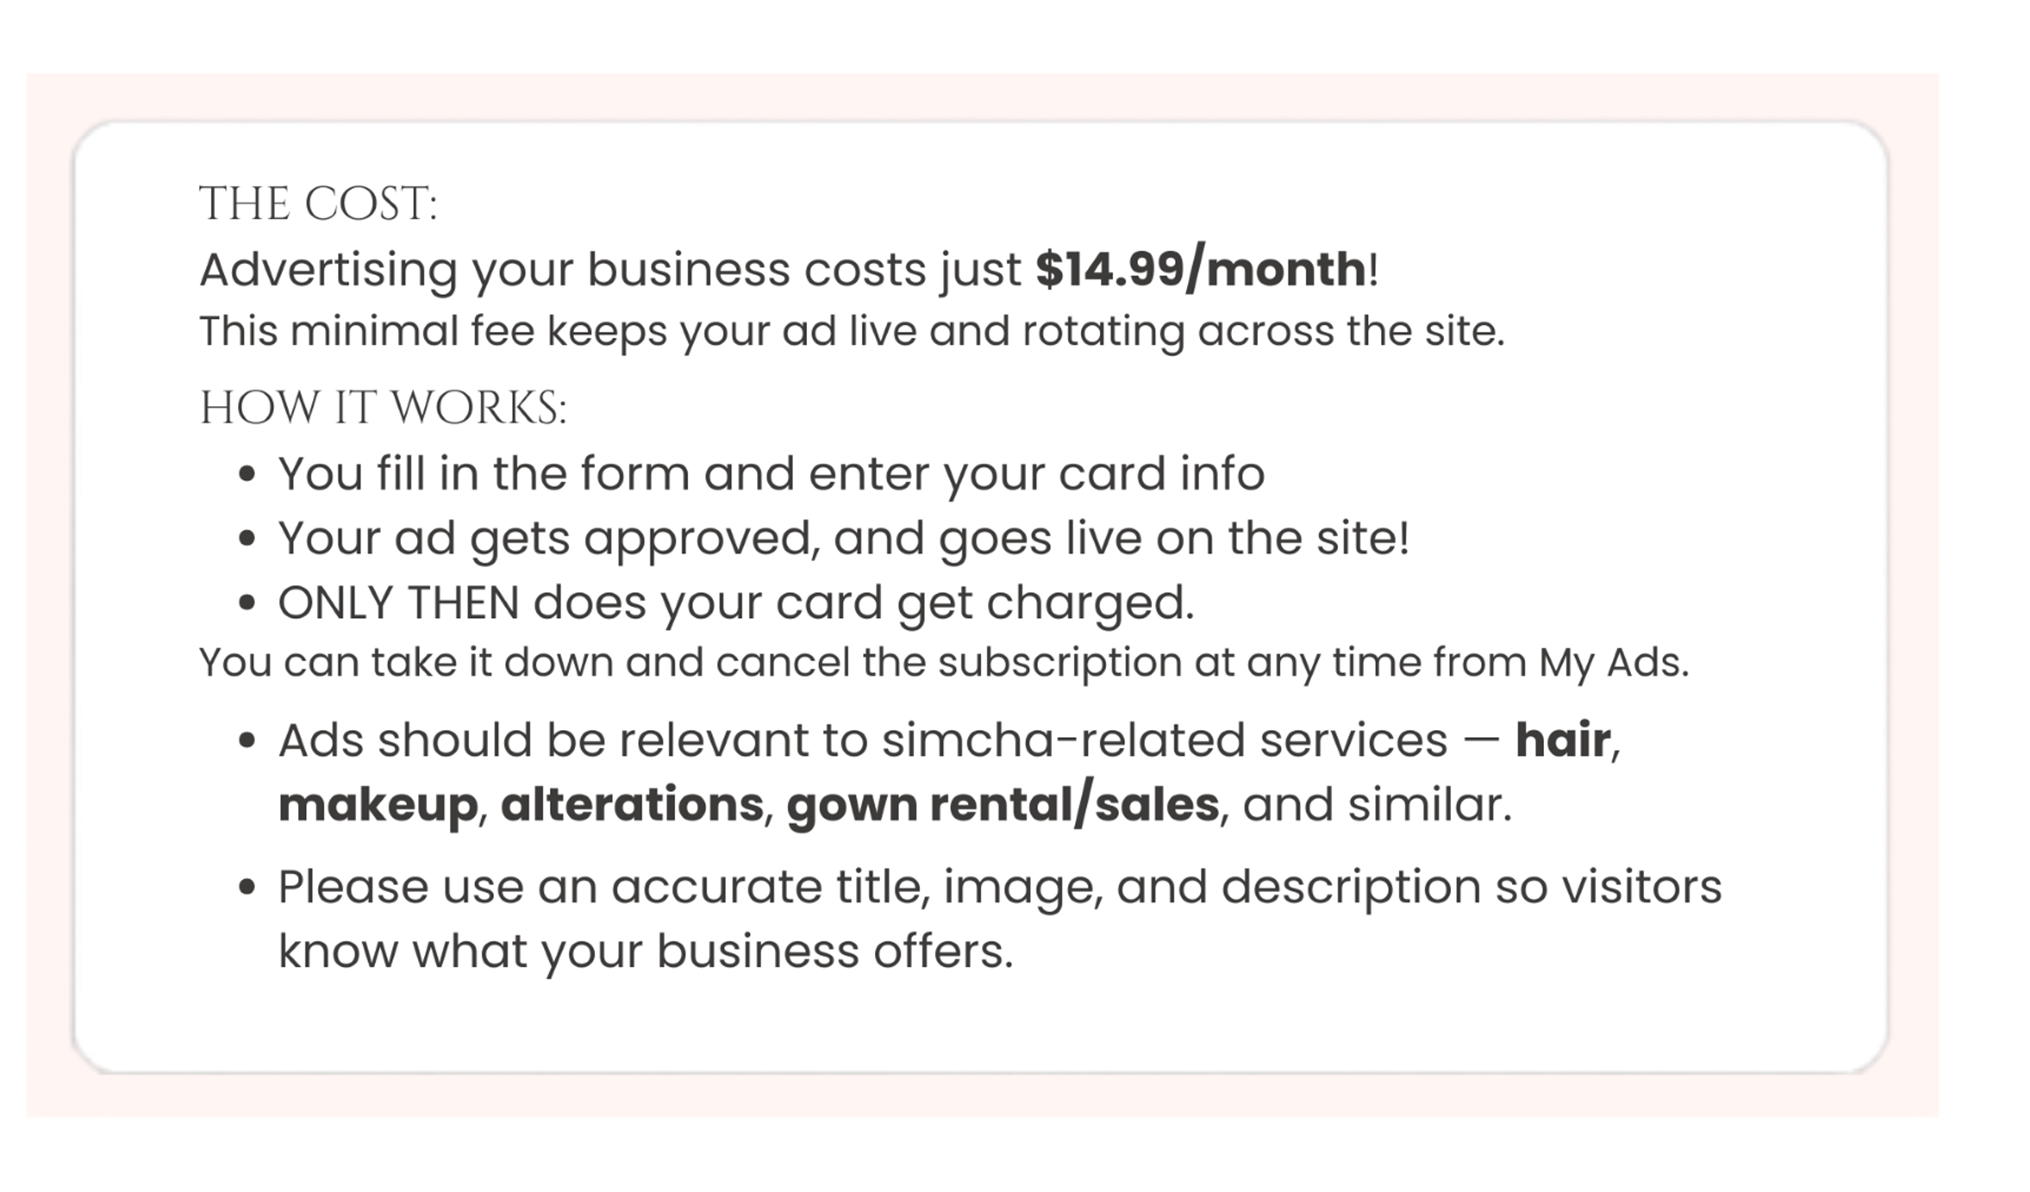
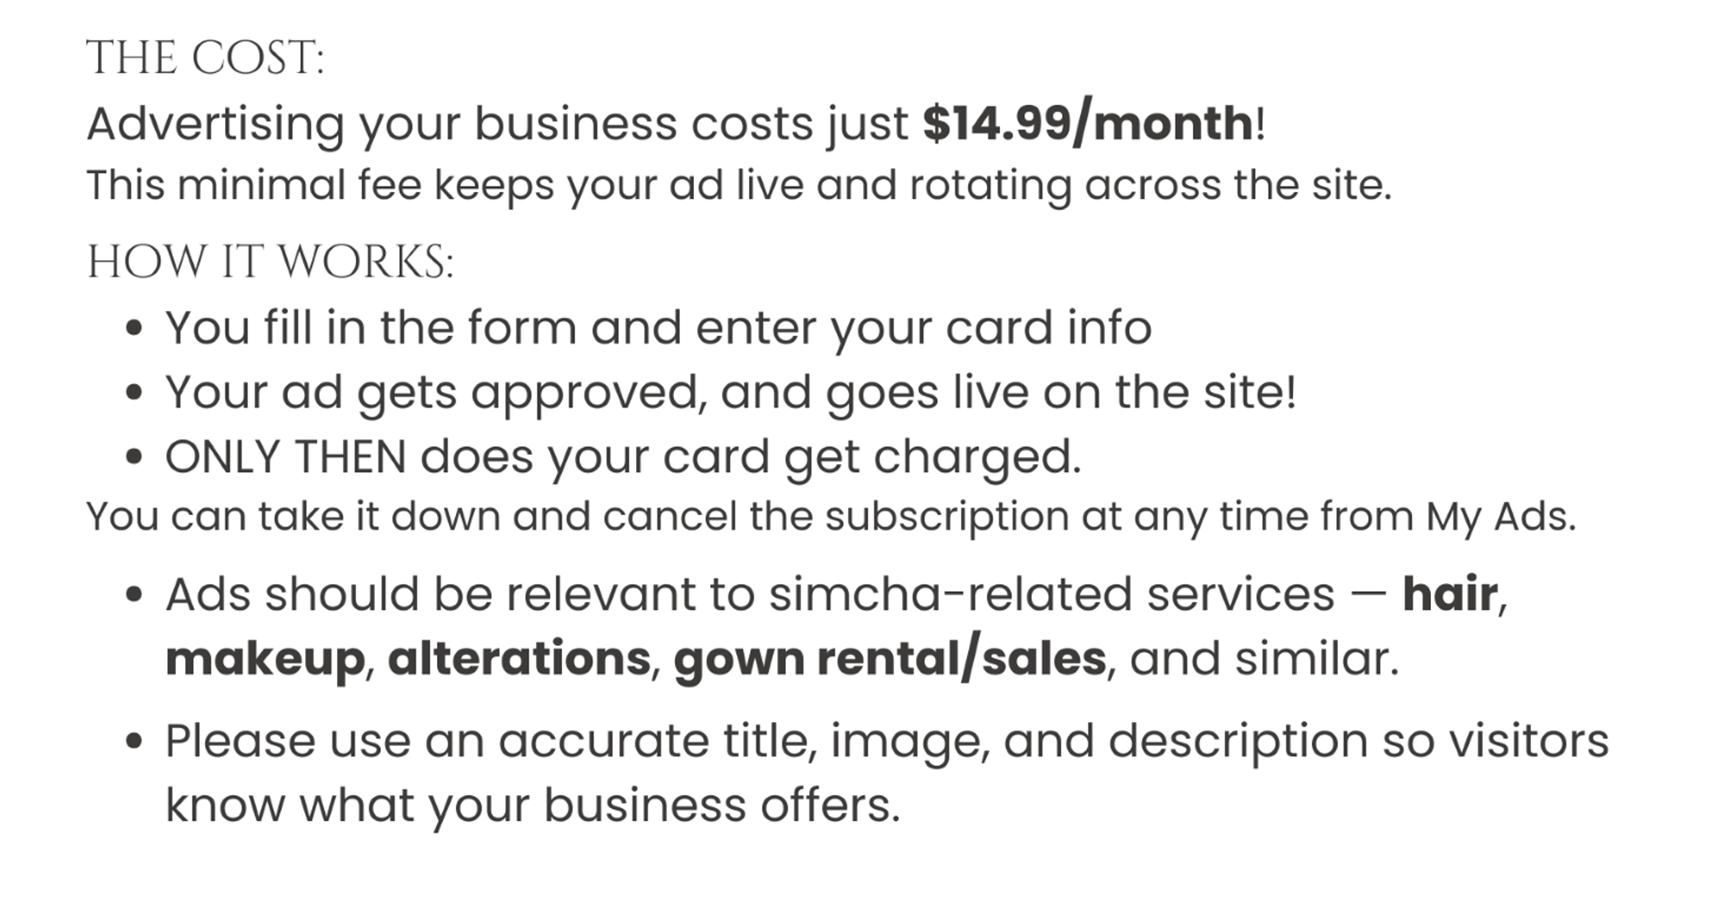
Swap in fully-cropped terms images, drop the CSS crop workaround
The previous transparent-background exports left a faint pink
antialiasing ring baked into the edges, which the scale(1.08/1.1) CSS
hack was cropping out. These new versions are cropped cleanly with no
residual pink, so the workaround is no longer needed.

Changed region(s): [[0.0312, 0.0926, 0.9359, 0.8644], [0.0936, 0.8644, 0.5303, 0.9261], [0.0624, 0.0309, 0.1872, 0.0926]]

diff --git a/GownSite.Web/ClientApp/src/Pages/PostGownTerms.jsx b/GownSite.Web/ClientApp/src/Pages/PostGownTerms.jsx
@@ -21,7 +21,7 @@ const PostGownTerms = () => {
             <Paper elevation={1} sx={{ borderRadius: 3, mb: 3, bgcolor: 'background.paper', overflow: 'hidden' }}>
                 <Box
                     component="img" src="/gown-terms.png" alt="Before you post: pricing and how it works"
-                    sx={{ width: '100%', display: 'block', transform: 'scale(1.08)', transformOrigin: 'center' }}
+                    sx={{ width: '100%', display: 'block' }}
                 />
             </Paper>
             <Stack direction="row" spacing={2} sx={{ justifyContent: 'flex-end', flexWrap: 'wrap' }}>

diff --git a/GownSite.Web/ClientApp/src/Pages/AdvertiseTerms.jsx b/GownSite.Web/ClientApp/src/Pages/AdvertiseTerms.jsx
@@ -60,7 +60,7 @@ const AdvertiseTerms = () => {
             <Paper elevation={1} sx={{ borderRadius: 3, mb: 3, bgcolor: 'background.paper', overflow: 'hidden' }}>
                 <Box
                     component="img" src="/ad-terms.png" alt="Before you advertise: pricing and how it works"
-                    sx={{ width: '100%', display: 'block', transform: 'scale(1.1)', transformOrigin: 'center' }}
+                    sx={{ width: '100%', display: 'block' }}
                 />
             </Paper>
 
